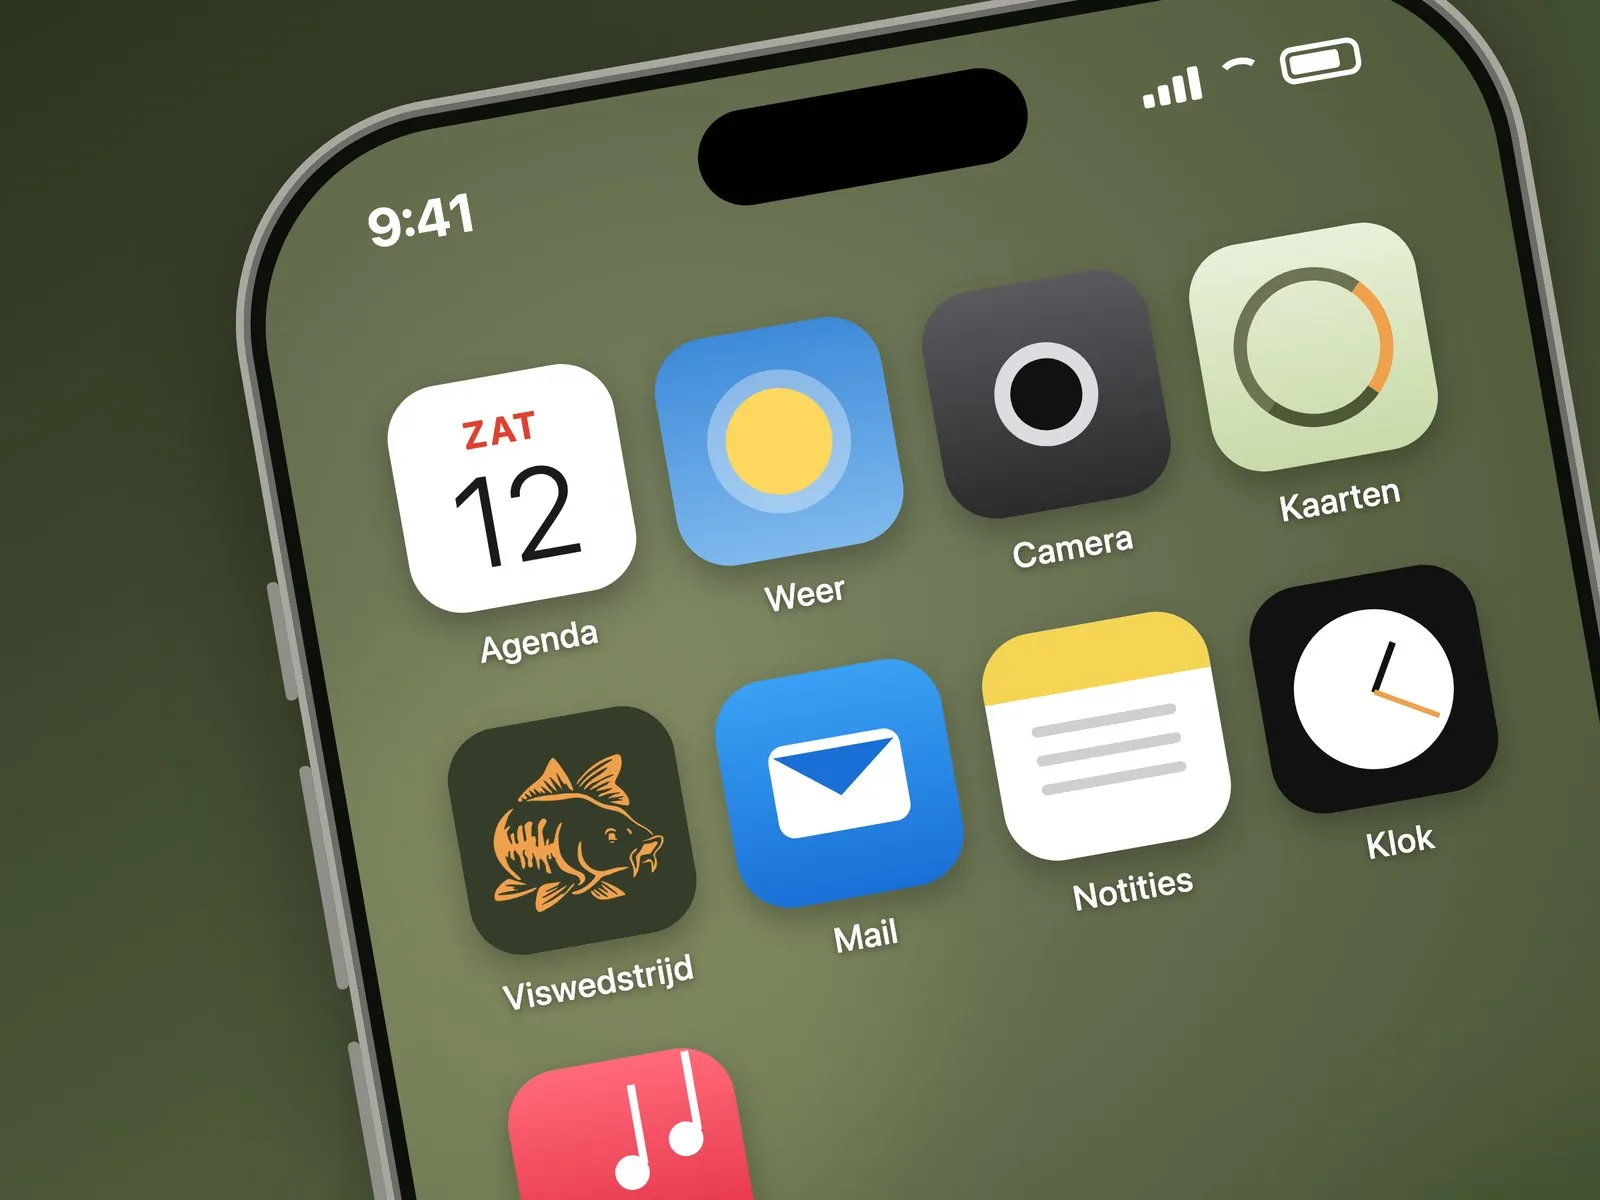
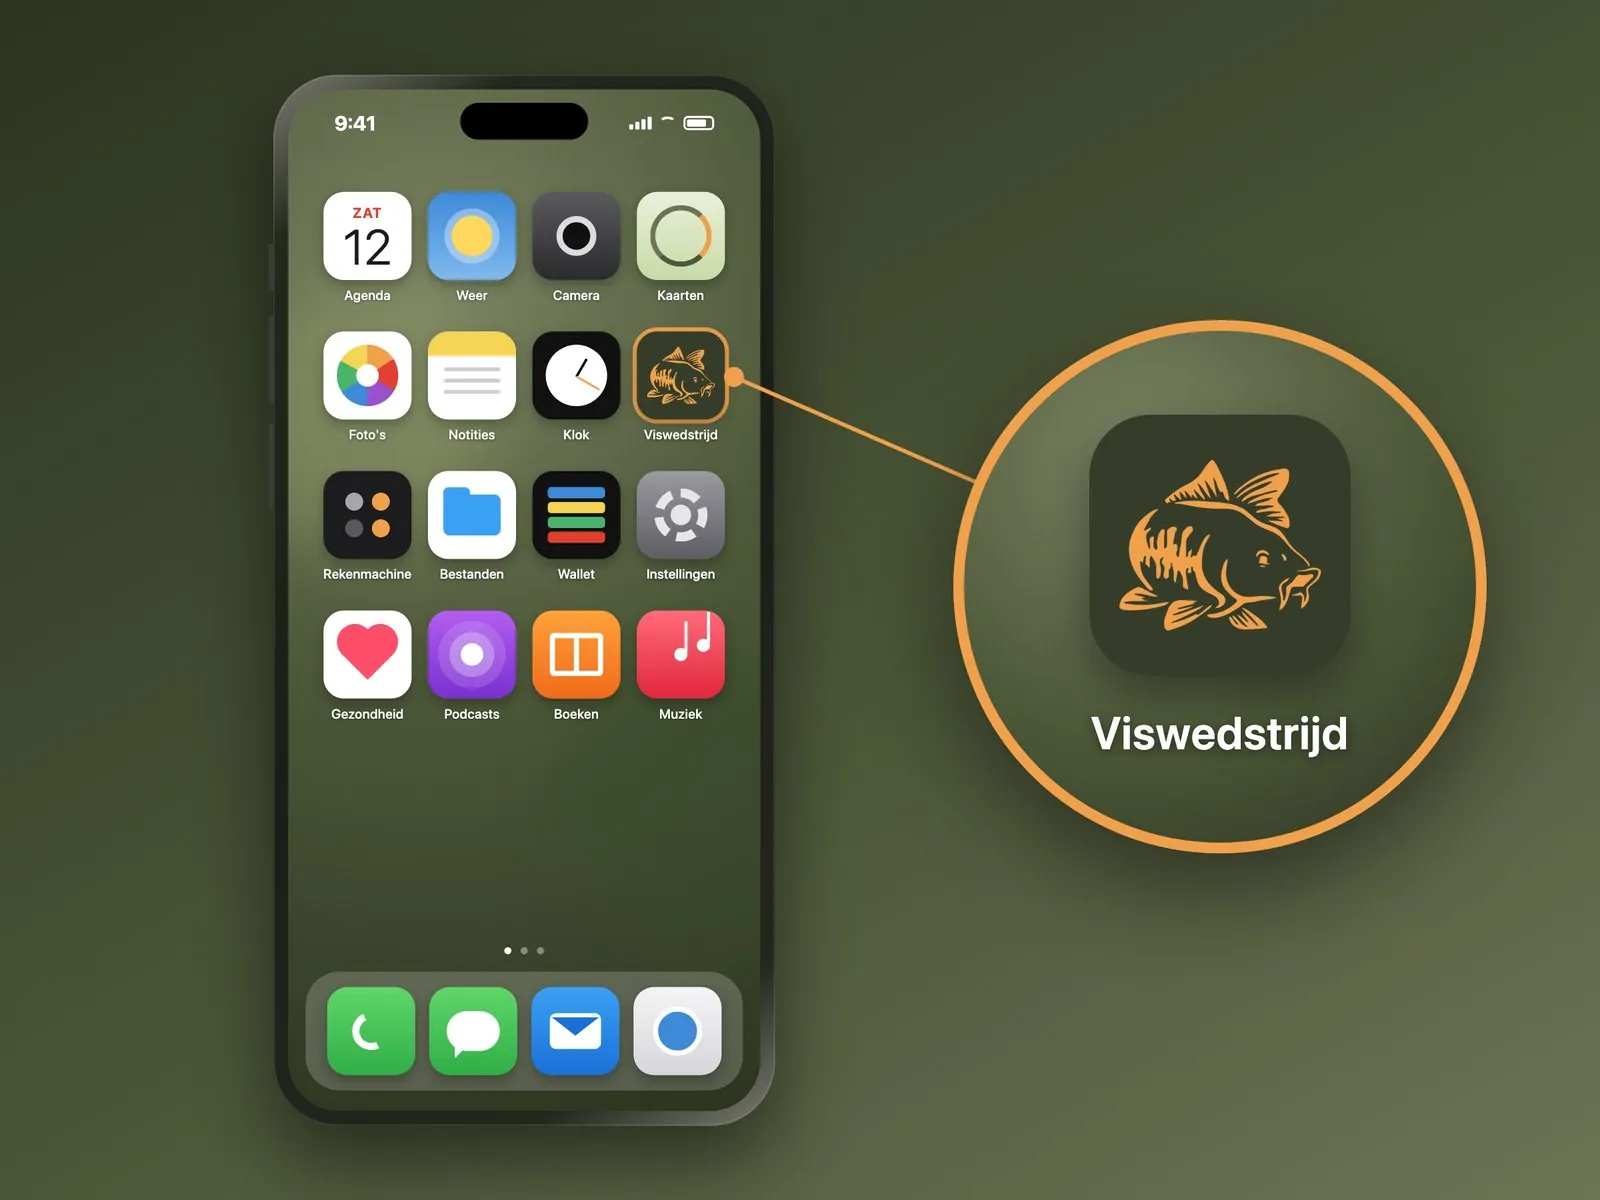
Drie nieuwe beelden: beginscherm, klassement en loting
- Beginscherm: de telefoon staat nu rechtop en helemaal in beeld, met een
  vergrootglas op het icoon (was een schuine hoek van een telefoon)
- Uitsnede van het klassement in de huidige vormgeving (stond nog in de oude
  letter en met witte kaarten)
- Lotingscherm opnieuw opgenomen in de huidige app (bron; getoond op kemblinck.nl)
- Alle andere beelden van de site nagelopen en actueel bevonden, zie CLAUDE.md

diff --git a/tools/mockup_beginscherm.html b/tools/mockup_beginscherm.html
@@ -1,28 +1,35 @@
 <!DOCTYPE html>
 <html lang="nl"><head><meta charset="utf-8">
 <style>
+  /* Beginscherm-mockup voor de site en de uitlegpagina's (versie 2, 19 nov 2026).
+     De telefoon staat RECHTOP en HELEMAAL in beeld, in de echte toestelverhouding
+     (78 x 163,4 mm) met de titaniumkleurige rand uit de huisstijl; rechts een vergrootglas
+     op het icoon van de app. Maken: headless Chrome, venster 1200x900 op schaal 2, daarna
+     verkleinen naar 1600x1200 en `python3 tools/naar_webp.py`. Zie CLAUDE.md. */
   * { margin:0; padding:0; box-sizing:border-box; }
   body { width:1200px; height:900px; overflow:hidden; position:relative;
          background: linear-gradient(150deg, #2c331f, #4d5839 60%, #6d7355);
          font-family: system-ui, -apple-system, 'Segoe UI', Roboto, Arial, sans-serif; }
-  .phone { position:absolute; left:150px; top:105px; width:980px; height:2000px;
-           border-radius:170px; background:#0d0f0a; padding:16px;
-           border:6px solid #a8a79f; box-shadow: 0 40px 90px rgba(0,0,0,.45), inset 0 0 0 5px #6d6c66;
-           transform: rotate(-10deg); transform-origin: 0 0; }
-  .side { position:absolute; left:-15px; width:9px; background:#8f8e88; border-radius:4px; }
+  /* De telefoon is getekend op 980 x 2053 en daarna verkleind, zodat de maten van de iconen kloppen. */
+  .toestel { position:absolute; left:205px; top:56px; width:980px; height:2053px;
+             transform: scale(.384); transform-origin: 0 0; }
+  .phone { position:absolute; inset:0; padding:29px; border-radius:125px;
+           background: linear-gradient(145deg, #7b7d70 0%, #24271e 12%, #1b1e16 50%, #24271e 88%, #7b7d70 100%);
+           box-shadow: 0 70px 150px rgba(0,0,0,.5), inset 0 0 0 3px rgba(255,255,255,.1); }
+  .side { position:absolute; left:-9px; width:9px; background:#3a3d33; border-radius:4px 0 0 4px; }
   .side.a { top:330px; height:90px; } .side.b { top:470px; height:170px; } .side.c { top:680px; height:170px; }
-  .screen { width:100%; height:100%; border-radius:150px; overflow:hidden; position:relative;
+  .screen { width:100%; height:100%; border-radius:98px; overflow:hidden; position:relative;
             background: radial-gradient(circle at 30% 20%, #7b8462 0, #4d5839 45%, #2c331f 100%); }
   .blob { position:absolute; border-radius:50%; filter: blur(60px); opacity:.55; }
   .b1 { width:520px; height:520px; left:-120px; top:380px; background:#8a9466; }
-  .b2 { width:600px; height:600px; right:-200px; top:900px; background:#3a4a2a; }
+  .b2 { width:600px; height:600px; right:-200px; top:1100px; background:#3a4a2a; }
   .island { position:absolute; left:50%; top:26px; transform:translateX(-50%); width:250px; height:72px; border-radius:40px; background:#000; }
   .status { position:absolute; top:42px; left:90px; right:90px; display:flex; justify-content:space-between; align-items:center; color:#fff; font-weight:700; font-size:40px; }
   .status .r { display:flex; align-items:center; gap:14px; }
   .bars { display:flex; align-items:flex-end; gap:4px; } .bars i { display:block; width:8px; background:#fff; border-radius:2px; }
   .wifi { width:34px; height:26px; border:5px solid #fff; border-color:#fff transparent transparent transparent; border-radius:50% 50% 0 0; }
   .batt { width:60px; height:28px; border:4px solid #fff; border-radius:9px; padding:3px; } .batt i { display:block; height:100%; width:80%; background:#fff; border-radius:3px; }
-  .grid { position:absolute; top:190px; left:70px; right:70px; display:grid; grid-template-columns:repeat(4, 1fr); row-gap:44px; column-gap:18px; }
+  .grid { position:absolute; top:200px; left:62px; right:62px; display:grid; grid-template-columns:repeat(4, 1fr); row-gap:56px; column-gap:18px; }
   .app { display:flex; flex-direction:column; align-items:center; gap:14px; }
   .ico { width:172px; height:172px; border-radius:40px; box-shadow:0 10px 24px rgba(0,0,0,.28); display:flex; align-items:center; justify-content:center; overflow:hidden; position:relative; }
   .app span { color:#fff; font-size:26px; font-weight:500; text-shadow:0 2px 6px rgba(0,0,0,.4); letter-spacing:.2px; }
@@ -35,8 +42,34 @@
   .notitie { background:#fff; flex-direction:column; justify-content:flex-start; } .notitie b { display:block; width:100%; height:48px; background:#f5d353; } .notitie i { display:block; width:110px; height:8px; background:#cfcfcf; border-radius:4px; margin-top:22px; box-shadow:0 22px 0 #cfcfcf, 0 44px 0 #cfcfcf; }
   .klok { background:#111; } .klok i { width:120px; height:120px; border-radius:50%; background:#fff; position:relative; } .klok i::before, .klok i::after { content:''; position:absolute; left:50%; top:50%; background:#111; transform-origin:0 50%; height:5px; } .klok i::before { width:40px; transform:rotate(-60deg); } .klok i::after { width:52px; transform:rotate(30deg); background:#f0a04b; height:4px; }
   .muziek { background:linear-gradient(#ff6a7a,#e0263c); } .muziek i { width:26px; height:26px; border-radius:50%; background:#fff; box-shadow:44px -18px 0 #fff; position:relative; } .muziek i::before { content:''; position:absolute; left:20px; top:-52px; width:6px; height:60px; background:#fff; box-shadow:44px -18px 0 #fff; }
+  .fotos { background:#fff; } .fotos i { width:120px; height:120px; border-radius:50%; background: conic-gradient(#f0a04b 0 16%, #e0402f 0 33%, #9a4fd0 0 50%, #3e8ad9 0 66%, #49b56a 0 83%, #f5d353 0); position:relative; } .fotos i::after { content:''; position:absolute; inset:38px; border-radius:50%; background:#fff; }
+  .telefoon { background:linear-gradient(#5fd66a,#2fae45); } .telefoon i { width:74px; height:74px; border:14px solid #fff; border-radius:50%; border-right-color:transparent; border-top-color:transparent; transform:rotate(20deg); }
+  .bericht { background:linear-gradient(#5fd66a,#2fae45); } .bericht i { width:104px; height:78px; background:#fff; border-radius:40px; position:relative; } .bericht i::after { content:''; position:absolute; left:16px; bottom:-14px; border:14px solid transparent; border-top-color:#fff; border-left-color:#fff; }
+  .instel { background:linear-gradient(#9a9aa0,#5d5d63); } .instel i { width:104px; height:104px; border-radius:50%; border:18px dashed #e6e6ea; position:relative; } .instel i::after { content:''; position:absolute; inset:14px; border-radius:50%; background:#e6e6ea; }
+  .reken { background:#1c1c1e; } .reken i { width:104px; height:104px; background:
+      radial-gradient(circle at 25% 25%, #a5a5aa 0 17px, transparent 18px), radial-gradient(circle at 75% 25%, #f0a04b 0 17px, transparent 18px),
+      radial-gradient(circle at 25% 75%, #5a5a5e 0 17px, transparent 18px), radial-gradient(circle at 75% 75%, #f0a04b 0 17px, transparent 18px); }
+  .mappen { background:#fff; } .mappen i { width:112px; height:80px; border-radius:12px; background:#3aa0f5; position:relative; } .mappen i::before { content:''; position:absolute; left:0; top:-14px; width:52px; height:22px; border-radius:10px 10px 0 0; background:#3aa0f5; }
+  .wallet { background:#111; flex-direction:column; gap:7px; } .wallet b { display:block; width:112px; height:22px; border-radius:7px; } .wallet b:nth-child(1) { background:#3e8ad9; } .wallet b:nth-child(2) { background:#f5d353; } .wallet b:nth-child(3) { background:#49b56a; } .wallet b:nth-child(4) { background:#e0402f; }
+  .gezond { background:#fff; } .gezond i { width:70px; height:70px; background:#ff4d6a; transform:rotate(45deg); border-radius:14px 0 0 0; position:relative; } .gezond i::before, .gezond i::after { content:''; position:absolute; width:70px; height:70px; border-radius:50%; background:#ff4d6a; } .gezond i::before { left:-35px; top:0; } .gezond i::after { left:0; top:-35px; }
+  .podcast { background:linear-gradient(#b35cf0,#7a2fd0); } .podcast i { width:44px; height:44px; border-radius:50%; background:#fff; box-shadow:0 0 0 22px rgba(255,255,255,.28), 0 0 0 44px rgba(255,255,255,.14); }
+  .boeken { background:linear-gradient(#ffa13a,#f06a1a); } .boeken i { width:104px; height:84px; border:10px solid #fff; border-radius:8px; position:relative; } .boeken i::after { content:''; position:absolute; left:50%; top:-10px; bottom:-10px; width:10px; margin-left:-5px; background:#fff; }
+  .dock { position:absolute; left:34px; right:34px; bottom:40px; height:232px; border-radius:66px; background:rgba(255,255,255,.2);
+          display:grid; grid-template-columns:repeat(4, 1fr); align-items:center; justify-items:center; padding:0 28px; }
+  .stip { position:absolute; left:0; right:0; bottom:306px; display:flex; justify-content:center; gap:18px; } .stip i { width:14px; height:14px; border-radius:50%; background:rgba(255,255,255,.4); } .stip i:first-child { background:#fff; }
+  .ico.eigen { box-shadow:0 10px 24px rgba(0,0,0,.28), 0 0 0 8px #f0a04b; }
+  /* vergrootglas: het icoon van de app nog eens groot, met een lijn naar de plek op het scherm */
+  .lijn { position:absolute; left:550px; top:281px; width:200px; height:3px; background:#f0a04b; transform-origin:0 50%; transform:rotate(23.5deg); border-radius:2px; }
+  .lijn::before { content:''; position:absolute; left:-7px; top:-6px; width:15px; height:15px; border-radius:50%; background:#f0a04b; }
+  .glas { position:absolute; left:715px; top:240px; width:400px; height:400px; border-radius:50%; overflow:hidden;
+          background: radial-gradient(circle at 35% 25%, #7b8462 0, #4d5839 55%, #2c331f 100%);
+          border:8px solid #f0a04b; box-shadow:0 30px 70px rgba(0,0,0,.45);
+          display:flex; flex-direction:column; align-items:center; justify-content:center; gap:22px; }
+  .glas img { width:196px; height:196px; border-radius:46px; box-shadow:0 14px 34px rgba(0,0,0,.4); display:block; }
+  .glas span { color:#fff; font-size:34px; font-weight:600; letter-spacing:.2px; text-shadow:0 2px 8px rgba(0,0,0,.45); }
 </style></head>
 <body>
+  <div class="toestel">
   <div class="phone">
     <div class="side a"></div><div class="side b"></div><div class="side c"></div>
     <div class="screen">
@@ -48,12 +81,29 @@
         <div class="app"><div class="ico weer"><i></i></div><span>Weer</span></div>
         <div class="app"><div class="ico camera"><i></i></div><span>Camera</span></div>
         <div class="app"><div class="ico kaart"><i></i></div><span>Kaarten</span></div>
-        <div class="app"><div class="ico"><img src="../docs/icon-512.png" alt=""></div><span>Viswedstrijd</span></div>
-        <div class="app"><div class="ico mail"><i></i></div><span>Mail</span></div>
+        <div class="app"><div class="ico fotos"><i></i></div><span>Foto's</span></div>
         <div class="app"><div class="ico notitie"><b></b><i></i></div><span>Notities</span></div>
         <div class="app"><div class="ico klok"><i></i></div><span>Klok</span></div>
+        <div class="app"><div class="ico eigen"><img src="../docs/icon-512.png" alt=""></div><span>Viswedstrijd</span></div>
+        <div class="app"><div class="ico reken"><i></i></div><span>Rekenmachine</span></div>
+        <div class="app"><div class="ico mappen"><i></i></div><span>Bestanden</span></div>
+        <div class="app"><div class="ico wallet"><b></b><b></b><b></b><b></b></div><span>Wallet</span></div>
+        <div class="app"><div class="ico instel"><i></i></div><span>Instellingen</span></div>
+        <div class="app"><div class="ico gezond"><i></i></div><span>Gezondheid</span></div>
+        <div class="app"><div class="ico podcast"><i></i></div><span>Podcasts</span></div>
+        <div class="app"><div class="ico boeken"><i></i></div><span>Boeken</span></div>
         <div class="app"><div class="ico muziek"><i></i></div><span>Muziek</span></div>
+      </div>
+      <div class="stip"><i></i><i></i><i></i></div>
+      <div class="dock">
+        <div class="ico telefoon"><i></i></div>
+        <div class="ico bericht"><i></i></div>
+        <div class="ico mail"><i></i></div>
+        <div class="ico weer" style="background:linear-gradient(#f4f4f6,#d6d6da)"><i style="background:#3e8ad9; box-shadow:none; width:96px; height:96px; border:10px solid #fff"></i></div>
       </div>
     </div>
   </div>
+  </div>
+  <div class="lijn"></div>
+  <div class="glas"><img src="../docs/icon-512.png" alt=""><span>Viswedstrijd</span></div>
 </body></html>

diff --git a/CLAUDE.md b/CLAUDE.md
@@ -863,9 +863,15 @@ technische details die bij het bouwen nodig zijn.
   en naam. Generator: `tools/gen_vangstbeeld_site.py`. Besluit Patrick 20 sep 2026;
   daarbij is ook de bronvermelding BivvyBrothers van de landing gehaald (eigen foto).
 - **Beginscherm-mockup:** `docs/schermen/beginscherm-mockup.jpg` (1600x1200) uit
-  `tools/mockup_beginscherm.html` (headless screenshot 1200x900 @2x, daarna verkleind):
-  iPhone-hoek met het icoon tussen generieke apps, op de hero-gradient. Staat op de
-  landing (sectie "Geen accounts, geen App Store") en op de drie instructiepagina's.
+  `tools/mockup_beginscherm.html`. **Sinds 19 nov 2026 versie 2: de telefoon staat rechtop
+  en HELEMAAL in beeld** (echte toestelverhouding, titaniumkleurige rand), met het icoon
+  rechts in de tweede rij en een vergrootglas ernaast waarin het icoon en de naam groot
+  staan. De eerste versie was een schuine hoek van een telefoon; Patrick wil een telefoon
+  altijd helemaal zien. Maken: `chrome --headless=new --force-device-scale-factor=2
+  --window-size=1200,900 --screenshot=uit.png file://.../tools/mockup_beginscherm.html`,
+  verkleinen naar 1600x1200 (jpg, kwaliteit 88) en `python3 tools/naar_webp.py`. Staat op
+  de landing (sectie "Geen accounts, geen App Store") en op de drie instructiepagina's
+  (die laden de jpg, de landing de webp).
 - **Regenereren na een stijlwijziging:** `gen_profielfoto.py`, `tools/og_image.html`
   (screenshot 1200x630), beide A4's (print-to-pdf + pymupdf-PNG op 110 dpi), de
   social-generators in `marketing/` en `klanten/NPHV/social/`.
@@ -1346,9 +1352,31 @@ elke vangst") en de kopjes "Meedoen" en "Contact" in de voet.
   scrollcontrole. Zonder script, bij "minder beweging" en bij print staat alles er meteen.
   Gaat het blok in `landing.js` fout, dan haalt de vangregel `js` weer weg.
 - **Telefoon altijd helemaal in beeld** (voorkeur Patrick, 19 nov, uitgesproken bij
-  tweehuizen.com): geen telefoon die uit een vlak loopt. De hoekopname
-  `beginscherm-mockup` is een bestaand beeld waarop de telefoon bewust half te zien is;
-  die is niet vervangen en ligt als vraag bij Patrick.
+  tweehuizen.com): geen telefoon die uit een vlak loopt. Daarom is ook de
+  `beginscherm-mockup` opnieuw gemaakt (zie de sectie Huisstijl).
+- **Beelden nagelopen op 19 nov (opdracht Patrick: "kijk direct of er nog meer nieuwe
+  opnamen nodig zijn"), drie vervangen:**
+  1. `beginscherm-mockup`: telefoon rechtop en helemaal in beeld.
+  2. `uitsnede-klassement` (naast "De vangst binnen"): stond sinds 19 sep nog in de oude
+     letter en met witte kaarten. Nu een uitsnede uit `scherm-klassement.png`
+     (vak 28, 274 tot 760, 1008; 732 x 734), dus dezelfde opname als in de hero.
+  3. `scherm-loting.png`: was de opname van 14 sep in de oude vormgeving. Wordt op deze
+     site niet getoond, maar stond wel op kemblinck.nl (`assets/vis-loting.webp`, daar ook
+     vervangen). Nieuwe opname: `/demo/#/w/DEMOJA`, toestand in de browser geënsceneerd
+     (geen databasewijziging): `clearInterval(POLL)`, status `stekkeuze`, start over twee
+     uur, `STATE.vangsten = []`, lotnummers 1 tot en met 12, de eerste drie houden hun
+     stek, `localStorage['team:' + CODE]` op het vierde team (dan is die aan de beurt),
+     `renderAlles(true)`, `activateTab('kaart')`, `#topcode` leeg en scrollen tot de
+     tabbalk onder de topbar staat. Het beeld toont "Jij bent aan de beurt", de kaart
+     met vrije en bezette stekken en de eerste regels van "Loting & volgorde".
+  **Wel actueel en dus gelaten:** `scherm-klassement` (hero; vergeleken met een verse
+  opname, zelfde vormgeving), `scherm-overzicht`, `scherm-kaart-nphv`, `kaart3d-stekken`,
+  `uitsnede-seizoen`, `uitslag-gedeeld`, `vangst-klassement` (alle 18 nov), de filmposters
+  (19 nov), `og.png`, de twee advertenties (telefoon helemaal in beeld) en beide A4's
+  (geen telefoon). **Niet meer in gebruik op de site** (oude vormgeving, alleen nog bron
+  of historie): `scherm-home`, `scherm-vangsten`, `scherm-seizoen`, `scherm-afsluiting`,
+  `uitslag-carpclassic-2026`. `vangst-klein.jpg` en `avondlicht-800.jpg` worden door
+  gereedschap gebruikt (rooktest, advertentie, huisstijloverzicht): laten staan.
 - **Twee oude fouten die hierbij aan het licht kwamen (Codex-review van de diff, nagemeten):**
   (1) de topbar bleef bij scrollen NIET bovenaan staan: `html, body { overflow-x: hidden }`
   maakt van `body` een scrollvak en dan plakt `position: sticky` niet. Nu
